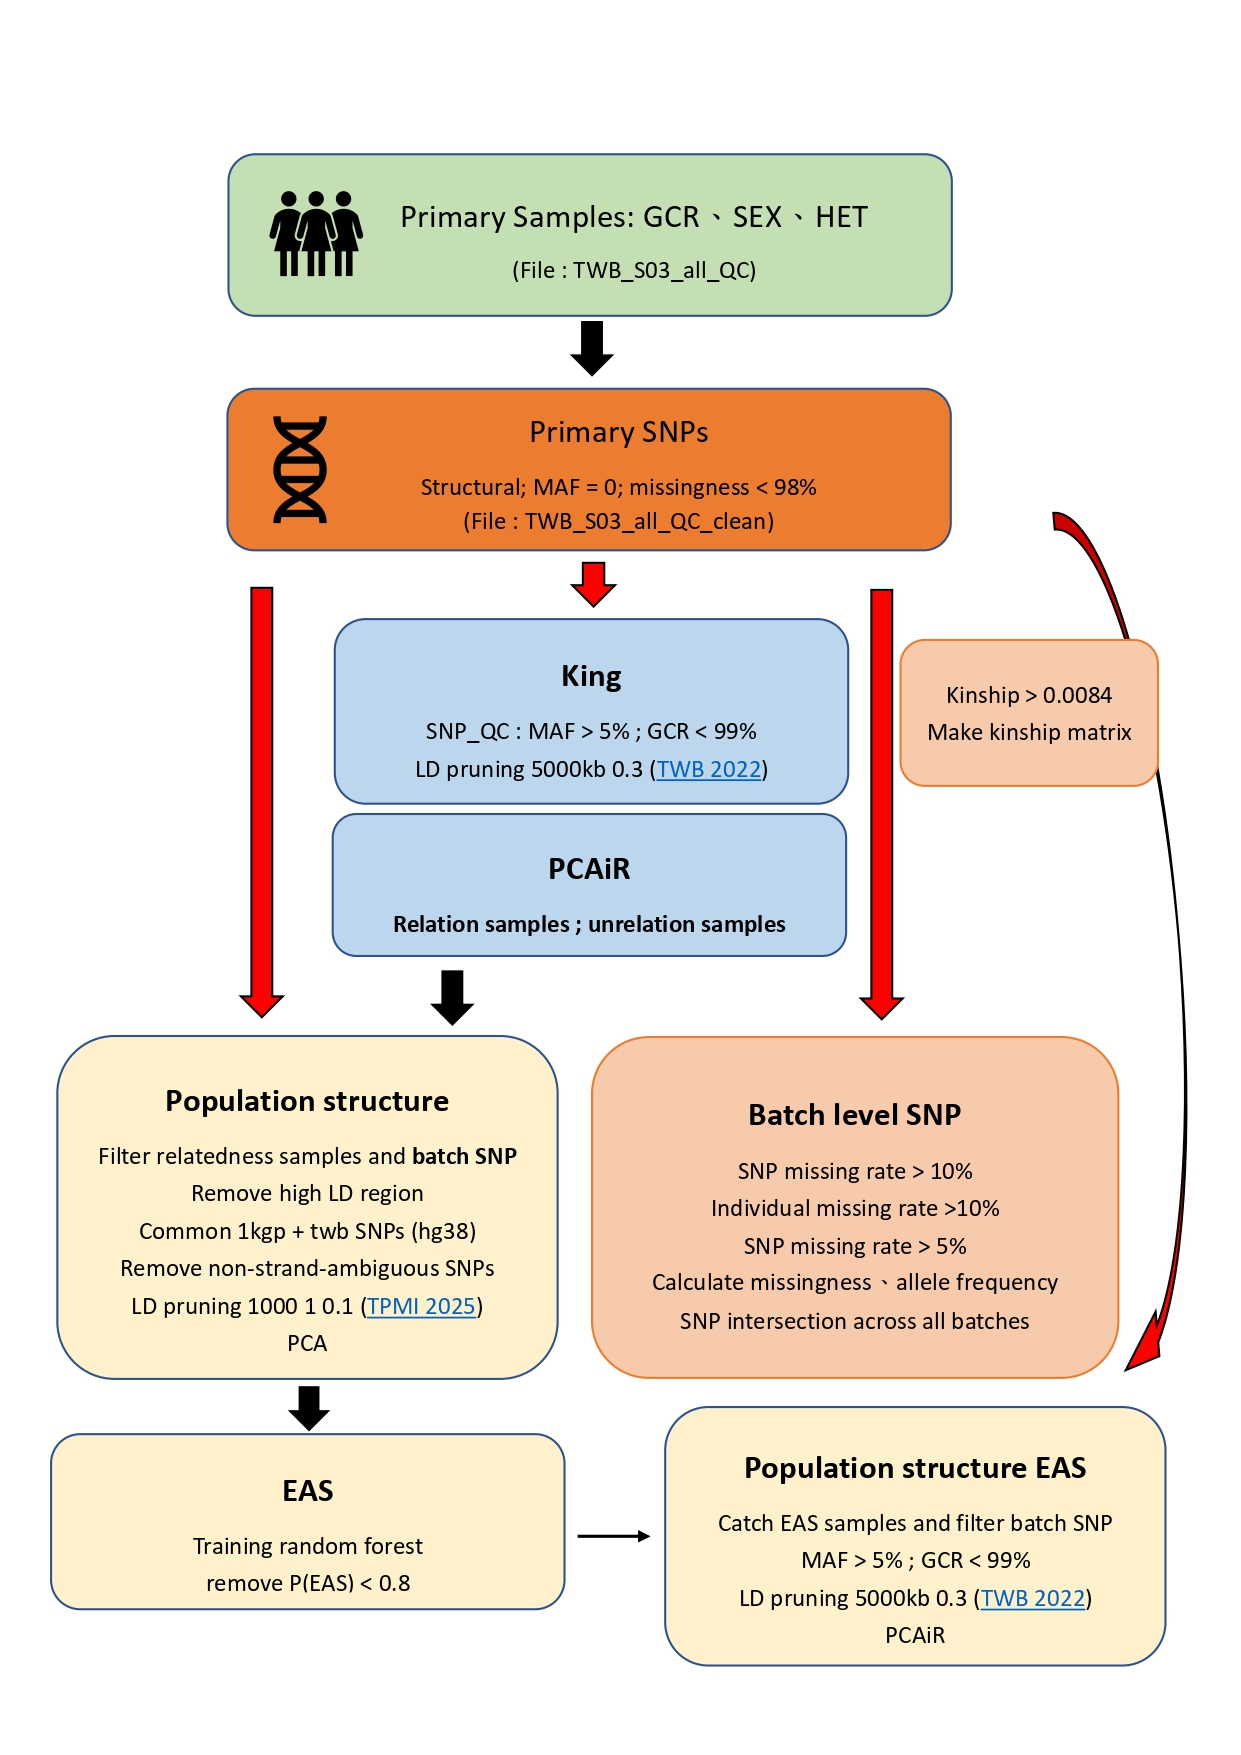
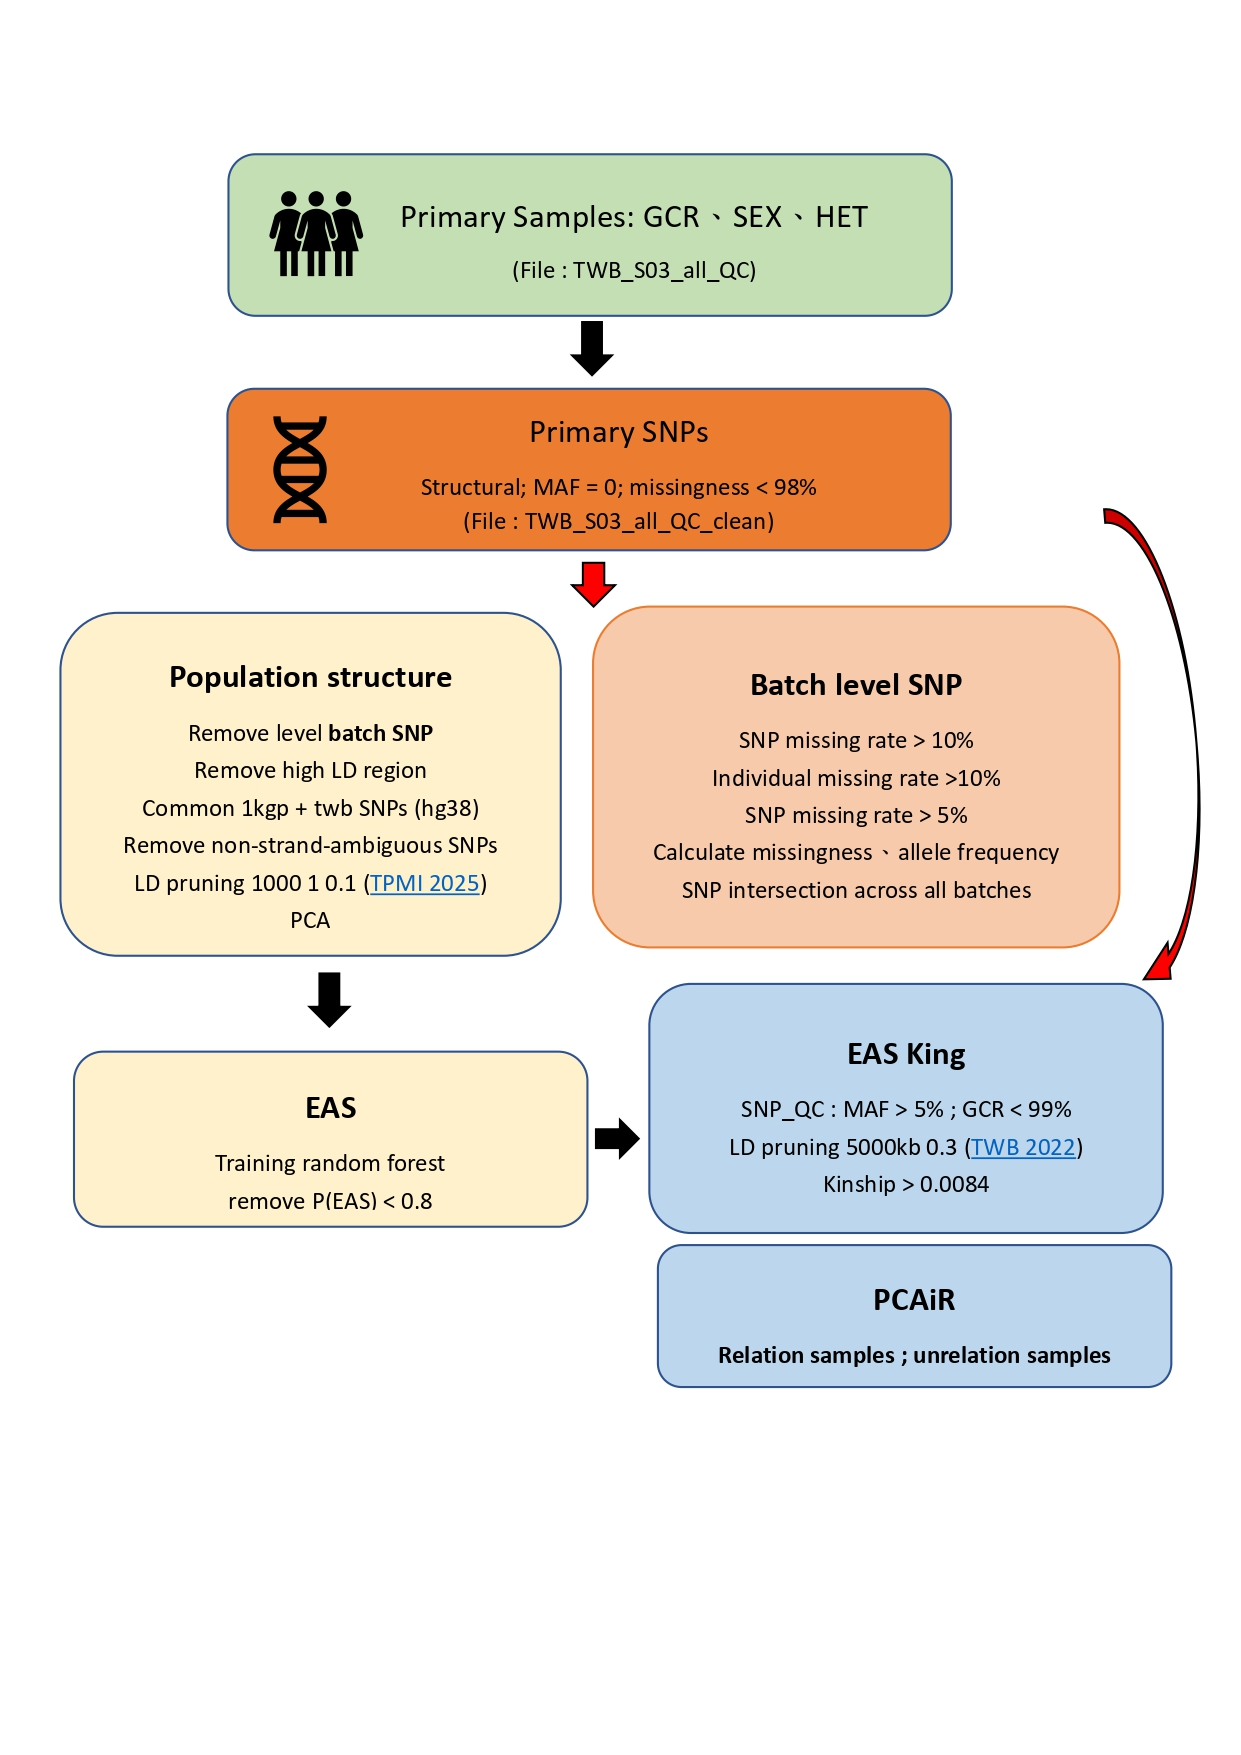
Switch Step 4、5 and Step 3

diff --git a/README.md b/README.md
@@ -83,32 +83,7 @@ Perform initial SNP-level quality control.
 **Output:**
 - `TWB_S03_all_QC_clean`
 
-## 3. Relatedness and Kinship Analysis
-
-### KING
-
-Identify genetic relationships between samples.
-
-- SNP QC:
-  - MAF > 5%
-  - GCR < 99%
-- LD pruning:
-  - Window size: 5000 kb
-  - LD threshold: 0.3
-  - Reference: TWB 2022
-- Kinship threshold:
-  - Kinship > 0.0084
-- Generate kinship matrix.
-
-### PCAiR
-
-Perform principal component analysis accounting for relatedness.
-
-- Identify related samples.
-- Identify unrelated samples.
-- Perform PCAiR analysis.
-
-## 4. Population Structure Analysis
+## 3. Population Structure Analysis
 
 Evaluate population structure using TWB and 1000 Genomes Project (1KGP) reference data.
 
@@ -133,7 +108,7 @@ Evaluate population structure using TWB and 1000 Genomes Project (1KGP) referenc
 - Evaluate population structure.
 - Identify East Asian (EAS) ancestry samples.
 
-## 5. Genetic Ancestry Classification
+## 4. Genetic Ancestry Classification
 
 Classify samples using a Random Forest model.
 
@@ -142,6 +117,31 @@ Classify samples using a Random Forest model.
 - Remove samples with:
   - P(EAS) < 0.8
 - Retain EAS samples for downstream analyses.
+
+## 5. Relatedness and Kinship Analysis
+
+### KING
+
+Identify genetic relationships between samples.
+
+- SNP QC:
+  - MAF > 5%
+  - GCR < 99%
+- LD pruning:
+  - Window size: 5000 kb
+  - LD threshold: 0.3
+  - Reference: TWB 2022
+- Kinship threshold:
+  - Kinship > 0.0084
+- Generate kinship matrix.
+
+### PCAiR
+
+Perform principal component analysis accounting for relatedness.
+
+- Identify related samples.
+- Identify unrelated samples.
+- Perform PCAiR analysis.
 
 ## 6. Batch-Level SNP QC
 
